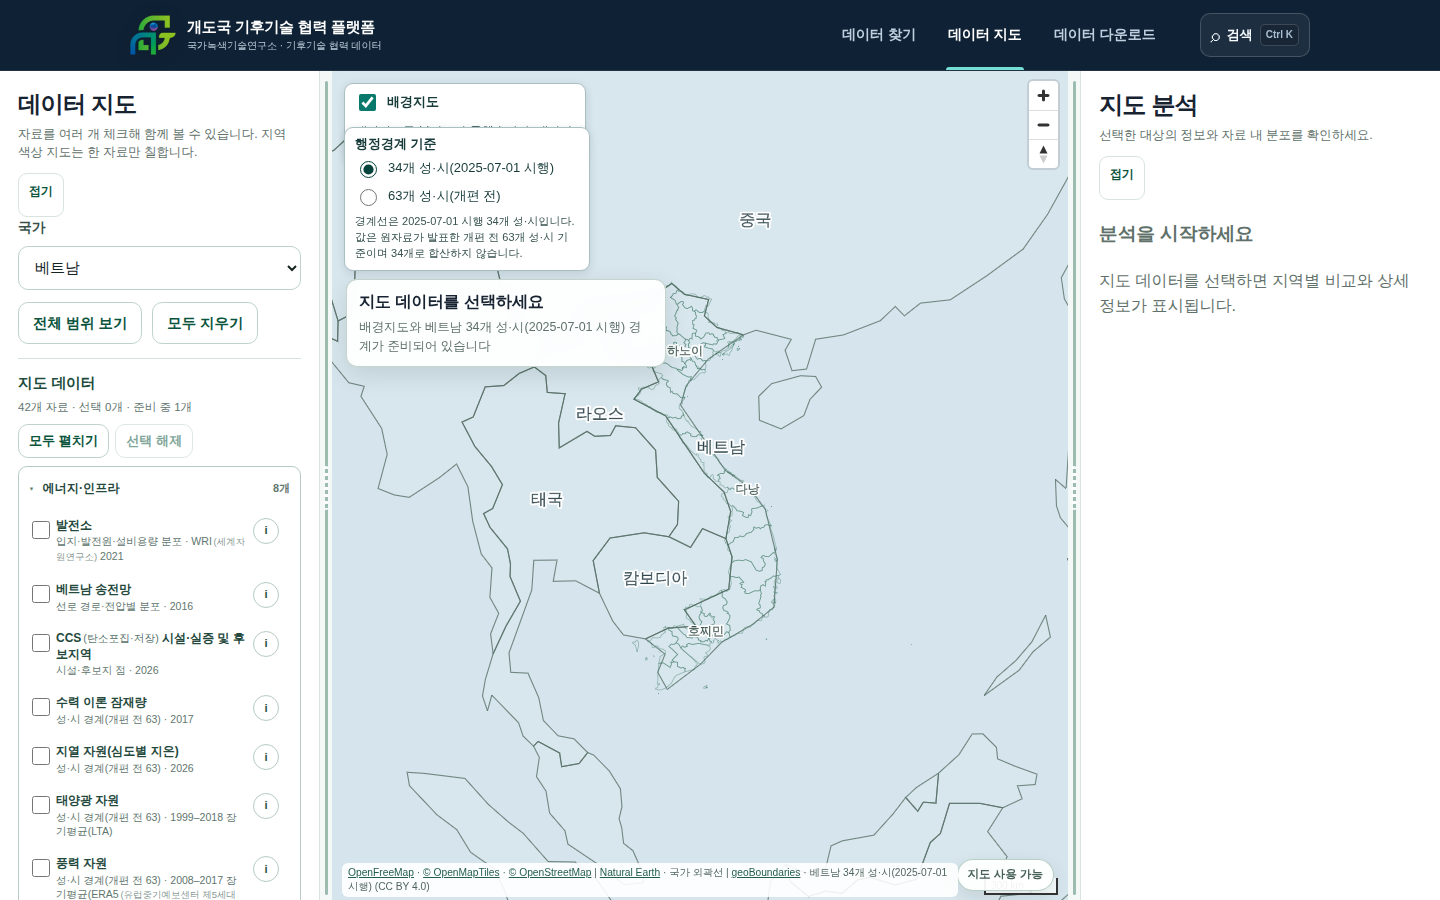
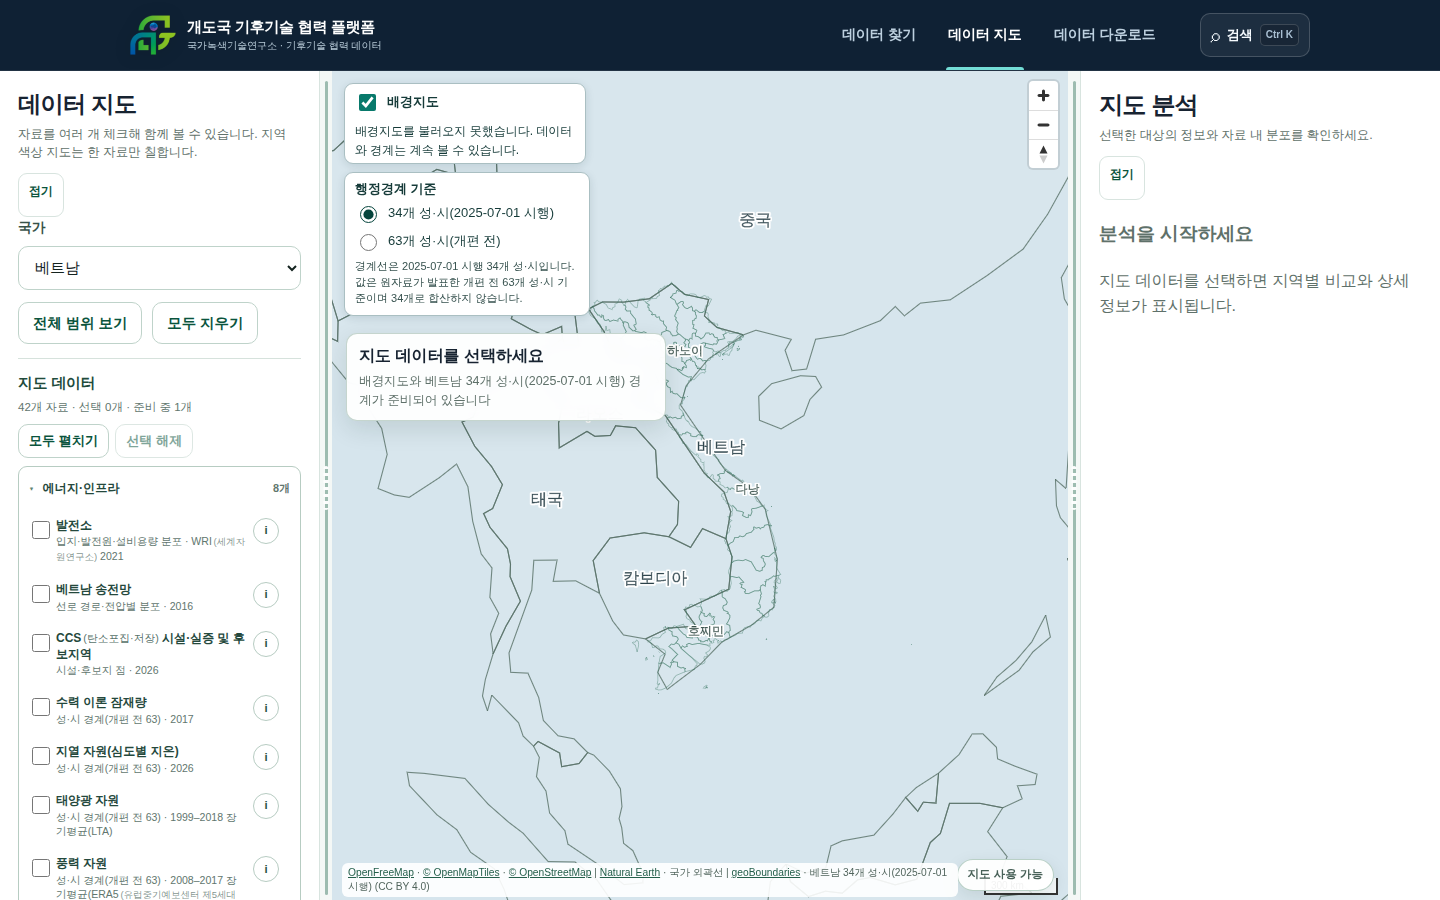
fix(v151): 배경지도 오류 문구 표시 시 안내 카드 오프셋 보정 · 검증 결과 반영
- 제어 스택이 오류 문구로 길어지면 `:has()`로 안내 카드 오프셋을 262px로 내림(미지원 브라우저는 기본값 유지 = 정상 로딩 시 배치)
- REVIEW/PR_BODY/PROGRESS에 실제 게이트 결과 기재
  - V151 게이트 32 PASS·1 INFO·0 FAIL(재빌드본), map-copy:v136 11/11, 단위 테스트 220건, tsc 0
  - finalize:v140은 이 컨테이너에서 완주 불가(타일 호스트 403 차단). 개별 실행 21 PASS·7 FAIL, 실패는 전부 CONSOLE_ERROR이며 내용은 100% ERR_TUNNEL_CONNECTION_FAILED
  - origin/main을 워크트리에 빌드해 map-tooltip:v132·map-compare:v135·finder-scroll:v136 대조 → 동일 FAIL, 회귀 아님
  - analysis QA 새 실패 43건은 전부 screenLoaded(41건 타일 차단·2건 부하 타임아웃), 기준선 41건 불변(resolved 0)
- 환경 때문에 FAIL로 덮인 감사 보고서 JSON은 커밋하지 않고 origin/main 상태로 복원

Claude-Session: https://claude.ai/code/session_01NobvCdFpt4qoUgAWePQzRb

Changed region(s): [[0.2188, 0.1244, 0.4688, 0.4667]]

diff --git a/src/styles/map-readability-v150.css b/src/styles/map-readability-v150.css
@@ -1,6 +1,10 @@
 .cdp-map-control-stack-v151 { position: absolute; z-index: 8; left: 12px; top: 12px; display: flex; flex-direction: column; align-items: flex-start; gap: 8px; max-width: calc(100% - 68px); }
 .cdp-map-backdrop-v150 { max-width: 100%; background: #fff; border: 1px solid #aabfc2; border-radius: 9px; box-shadow: 0 2px 8px #15353b22; padding: 4px 10px; color: #163b39; font-size: 13px; }
 .cdp-map-canvas-wrap .cdp-map-overlay-card { top: 208px; }
+/* When the backdrop card also shows its failure notice the control stack is
+   taller, so the hint card starts lower. Browsers without :has() keep the
+   default offset, which is the layout when the backdrop loads normally. */
+.cdp-map-canvas-wrap:has(.cdp-map-backdrop-v150 > [role="status"]) .cdp-map-overlay-card { top: 262px; }
 /* V151: the boundary-vintage picker sits under the backdrop toggle, in the
    same top-left control stack, and carries the notice that switching the
    outline never changes a value. */

diff --git a/reports/v151/REVIEW_V151.md b/reports/v151/REVIEW_V151.md
@@ -57,28 +57,50 @@
 
 ## 4. 검증 결과
 
+### 4.1 V151이 책임지는 검사
+
 | 항목 | 결과 |
 | --- | --- |
 | `npx tsc --noEmit` | 오류 0 |
 | `npm run test:unit` | **220건 통과** (기준 206+, V151 신규 9건 포함) |
 | `audit:boundary-34:v151` (브라우저 포함) | **32 PASS · 1 INFO · 0 FAIL** |
 | `audit:boundary-34:v151 --skip-browser` | 21 PASS · 1 SKIP · 0 FAIL |
-| `audit:map-copy:v136` | 11/11 PASS |
-| `npm run finalize:v151` | (§4.1) |
 | 반응형 320/390/768/1024/1440/1920 | 문서 가로 넘침 0 |
 | 동일출처 요청 실패 | 0 |
-| 콘솔 오류(네트워크 제외) | 0 |
+| 콘솔 오류(네트워크 실패 제외) | 0 |
 
-### 4.1 브라우저로 확인한 것(실제 Chromium, production 빌드 정적 서버)
+브라우저로 확인한 것(실제 Chromium 141, production 빌드 정적 서버):
+
 - 첫 진입 시 34개가 선택돼 있고 `vnm-adm1-34.geojson`을 먼저 요청한다.
 - 63개로 바꾸면 `vnm-adm1-63.geojson`을 요청하고 고지 문구가 "경계선과 값 모두 개편 전 63개 성·시 기준입니다."로 바뀐다.
 - 새로고침 후에도 선택이 유지된다.
-- 스크린샷: `map-boundary-34-v151.png`(34개, 내부 경계 적음) · `map-boundary-63-v151.png`(63개, 내부 경계 많음) · `map-labels-34-zoom-v151.png`(확대 시 한글 지명 '하띤' 렌더 — 이번에 키를 고친 바로 그 성).
-- 구분: 위 항목은 **동작 확인**이다. 42개 데이터 레이어 각각의 내용 적합성은 이번 PR에서 다시 검토하지 않았다(값 로직 무변경).
+- 확대하면 34개 기준 한글 지명이 그려진다(`map-labels-34-zoom-v151.png`의 '하띤' — 이번에 대응표 키를 고친 바로 그 성).
+- 스크린샷: `map-boundary-34-v151.png`(34개, 내부 경계 적음) · `map-boundary-63-v151.png`(63개, 내부 경계 많음) · `map-labels-34-zoom-v151.png`.
 
-### 4.2 환경 보정 1건(기대값 변경 아님)
-- 컨테이너가 root로 돌아 `scripts/v125/browser-runtime.mjs`의 헤드리스 브라우저가 기동조차 못했다(`Running as root without --no-sandbox is not supported`). root·리눅스일 때만 `--no-sandbox --disable-dev-shm-usage`를 붙이고, 러너별 추가 플래그는 `V125_BROWSER_ARGS`로 주입하게 했다. 개발자 로컬과 비-root CI는 동작이 그대로다.
-- 이 환경에서 WebGL은 소프트웨어 렌더가 필요해 `V125_BROWSER_ARGS="--enable-unsafe-swiftshader --use-gl=angle --use-angle=swiftshader"`로 실행했다. **감사 기대값은 하나도 바꾸지 않았다.** 바뀐 것은 "실행 실패"가 "실제 검사 수행"이 된 것뿐이다(map-copy:v136이 8 FAIL → 11 PASS).
+구분: 위 항목은 **동작 확인**이다. 42개 데이터 레이어 각각의 내용 적합성은 이번 PR에서 다시 검토하지 않았다(값 로직 무변경).
+
+### 4.2 `finalize:v140` 게이트 — 이 컨테이너에서는 완주 불가
+
+**`npm run finalize:v151`은 이 환경에서 통과하지 못했다.** 원인은 코드가 아니라 실행 환경의 네트워크 정책이며, 근거는 `reports/v151/GATE_ENVIRONMENT_V151.md`에 있다. 요약:
+
+- 프록시가 배경지도 타일 호스트 `tiles.openfreemap.org:443`을 403으로 거부한다. 배경지도는 V150에서 이미 main에 들어간 기능이고 기본값이 '켬'이라, 지도 화면을 여는 모든 브라우저 감사에서 `CONSOLE_ERROR`가 실패한다.
+- `origin/main`(3357632)을 별도 워크트리에 빌드해 같은 감사를 돌린 결과도 동일하게 FAIL이다(`map-tooltip:v132` · `map-compare:v135` · `finder-scroll:v136` 3종 확인). **기준선이 이미 실패하므로 V151 회귀가 아니다.**
+
+게이트를 개별 실행한 결과(총 28개 중 **21 PASS · 7 FAIL**, 실패는 전부 지도 화면 브라우저 감사):
+
+| 결과 | 감사 |
+| --- | --- |
+| PASS (21) | benchmark-fit:v132 · oda-analysis:v134 · drought-analysis:v134 · public-copy:v134(상세 152경로 전수) · visual-qa-contract:v134 · finder-card:v135 · temporal-depth:v135 · detail-hierarchy:v135 · map-guide:v135 · public-screen:v135 · public-text:v136(공개 문구 42,981건) · duplicate-copy:v136 · map-copy:v136 · public-controls:v136 · generic-detail-public:v136-2 · screen-usability:v136-4 · human-review:v136 · workflow:v136 · generated-data:v133 · ci-contract:v133 · entity-cards:v131 |
+| FAIL (7) | map-tooltip:v132 · map-focus:v133 · map-popup:v133 · map-layer-distinction:v133 · glossary:v134 · map-access:v135 · map-list-ui:v136 — 모두 `CONSOLE_ERROR` 1건만 실패하고 그 내용은 **100% `Failed to load resource: net::ERR_TUNNEL_CONNECTION_FAILED`**, 앱 예외 0건 |
+| FAIL (환경, 별도) | map-compare:v135 · finder-scroll:v136 — 타일 실패에 더해 `TypeError: Failed to fetch` 2건씩. 감사가 대기 중 fetch를 두고 이동·재로드할 때 나는 중단 오류이며, `origin/main`에서도 같은 검사가 같은 이유로 FAIL한다 |
+
+`qa:analysis:v140:baseline`(41건 기준선): **새 실패 43건이 모두 `screenLoaded`** 하나다. 원인을 항목별로 확인한 결과 41건은 타일 차단(`ERR_TUNNEL_CONNECTION_FAILED`)이고, 2건(C-002·C-019)은 컨테이너 부하로 인한 `page.selectOption` 30초 타임아웃이다. `screenLoaded`는 "콘솔 오류 0 + 자산 실패 0"을 요구하므로 타일이 막히면 지도를 품은 상세 화면이 전부 실패한다. **기준선 41건 자체는 하나도 늘거나 줄지 않았고(resolved 0), 값·분석 관련 검사는 모두 기존과 같다.** 같은 실행에서 `public-copy:v134`가 상세 152경로를 전부 로드해 통과한 것이 이 판단을 뒷받침한다.
+
+### 4.3 환경 보정 1건(기대값 변경 아님)
+
+컨테이너가 root로 돌아 `scripts/v125/browser-runtime.mjs`의 헤드리스 브라우저가 기동조차 못했다(`Running as root without --no-sandbox is not supported`). root·리눅스일 때만 `--no-sandbox --disable-dev-shm-usage`를 붙이고, 러너별 추가 플래그는 `V125_BROWSER_ARGS`로 주입하게 했다. 개발자 로컬과 비-root CI는 동작이 그대로다.
+
+**감사 기대값은 하나도 바꾸지 않았다.** 바뀐 것은 "실행 실패"가 "실제 검사 수행"이 된 것뿐이다(`map-copy:v136`이 8 FAIL → 11 PASS). 환경 때문에 FAIL로 덮어써진 감사 보고서 JSON은 커밋하지 않고 `origin/main` 기준 상태로 되돌렸다.
 
 ## 5. 미완료와 사유
 

diff --git a/reports/v151/PR_BODY.md b/reports/v151/PR_BODY.md
@@ -24,13 +24,21 @@
 | --- | --- |
 | `npx tsc --noEmit` | 오류 0 |
 | `npm run test:unit` | 220건 통과 (V151 신규 9건 포함) |
-| `audit:boundary-34:v151` (브라우저 포함) | 32 PASS · 1 INFO · 0 FAIL |
-| `audit:map-copy:v136` | 11/11 PASS |
-| `npm run finalize:v151` | PASS |
+| `audit:boundary-34:v151` (브라우저 포함) | **32 PASS · 1 INFO · 0 FAIL** |
 | 반응형 320/390/768/1024/1440/1920 | 가로 넘침 0 |
-| 동일출처 요청 실패 · 콘솔 오류 | 0 · 0 |
+| 동일출처 요청 실패 · 앱 콘솔 오류 | 0 · 0 |
 
-실제 Chromium + production 빌드 정적 서버로 확인: 첫 진입 34개 선택 → `vnm-adm1-34.geojson` 요청, 63개 토글 → `vnm-adm1-63.geojson` 요청·고지 문구 전환, 새로고침 후 선택 유지. 스크린샷 3장은 `reports/v151/`.
+실제 Chromium + production 빌드 정적 서버로 확인: 첫 진입 34개 선택 → `vnm-adm1-34.geojson` 요청, 63개 토글 → `vnm-adm1-63.geojson` 요청·고지 문구 전환, 새로고침 후 선택 유지, 확대 시 34개 기준 한글 지명 렌더. 스크린샷 3장은 `reports/v151/`.
+
+### ⚠ `finalize:v140`은 이 실행 환경에서 완주하지 못했습니다 (merge 선행조건)
+
+원인은 코드가 아니라 **실행 환경의 네트워크 정책**입니다. 프록시가 배경지도 타일 호스트 `tiles.openfreemap.org:443`을 403으로 거부하고, 배경지도는 V150에서 이미 main에 들어간 기본 켜짐 기능이라 지도 화면을 여는 모든 브라우저 감사의 `CONSOLE_ERROR`가 실패합니다.
+
+- `origin/main`(3357632)을 별도 워크트리에 빌드해 같은 감사를 돌린 결과도 **동일하게 FAIL**입니다(`map-tooltip:v132`·`map-compare:v135`·`finder-scroll:v136` 3종 확인). 기준선이 이미 실패하므로 V151 회귀가 아닙니다.
+- 게이트를 개별 실행: **21 PASS · 7 FAIL**. 실패 7건은 전부 지도 화면 감사이고 `CONSOLE_ERROR` 1건만 실패하며, 그 내용은 100% `net::ERR_TUNNEL_CONNECTION_FAILED`, 앱 예외 0건입니다.
+- `qa:analysis:v140:baseline`(41건 기준선): 새 실패 43건이 전부 `screenLoaded`이며, 41건은 타일 차단·2건은 컨테이너 부하로 인한 `selectOption` 타임아웃입니다. **기준선 41건은 늘지도 줄지도 않았고(resolved 0), 값·분석 검사는 모두 기존과 같습니다.** 같은 실행에서 `public-copy:v134`가 상세 152경로를 전부 로드해 통과한 것이 이를 뒷받침합니다.
+
+**게이트 기대값은 하나도 바꾸지 않았습니다.** 근거와 재현 명령은 `reports/v151/GATE_ENVIRONMENT_V151.md`에 있습니다. merge 전에 타일 호스트가 열린 환경(로컬·CI·Vercel Preview)에서 `npm run finalize:v151`·`npx playwright test`·`npm run release:vietnam-pilot` 확인이 필요합니다.
 
 ## 범위 밖·남은 일
 

diff --git a/reports/v151/PROGRESS.md b/reports/v151/PROGRESS.md
@@ -23,4 +23,4 @@
 - [x] 4단계 화면 토글·문구 — 지도 '행정경계 기준' 라디오(기본 34), 참조 경계·라벨·대체 SVG·저작권·상태 문구 연동, 이용안내·지도 안내 등 문구에 '개편 전' 명시 (커밋 7b06eab)
 - [x] 5단계 게이트 — `scripts/v151/audit-boundary-34-v151.mjs` 정적 21 + 브라우저 11. npm `audit:boundary-34:v151`·`finalize:v151`·`build:adm1-34:v151` (커밋 3518881)
 - [x] 6단계 환경 보정 — root 실행 시 헤드리스 브라우저 기동 실패를 `--no-sandbox`로 해소, `V125_BROWSER_ARGS` 주입구 추가. 기대값 불변 (커밋 40632d5)
-- [ ] 7단계 문서·PR — REVIEW_V151·PR_BODY·CHANGELOG, `finalize:v151` 1회, PR 생성, merge는 사용자 승인 대기
+- [x] 7단계 문서·PR — REVIEW_V151·PR_BODY·GATE_ENVIRONMENT_V151·CHANGELOG 작성, 게이트 개별 실행(21 PASS·7 FAIL, 전부 타일 차단), origin/main 대조로 회귀 아님 확인, PR 생성. merge는 사용자 승인 + 타일 접근 가능한 환경의 finalize:v151 확인 대기
